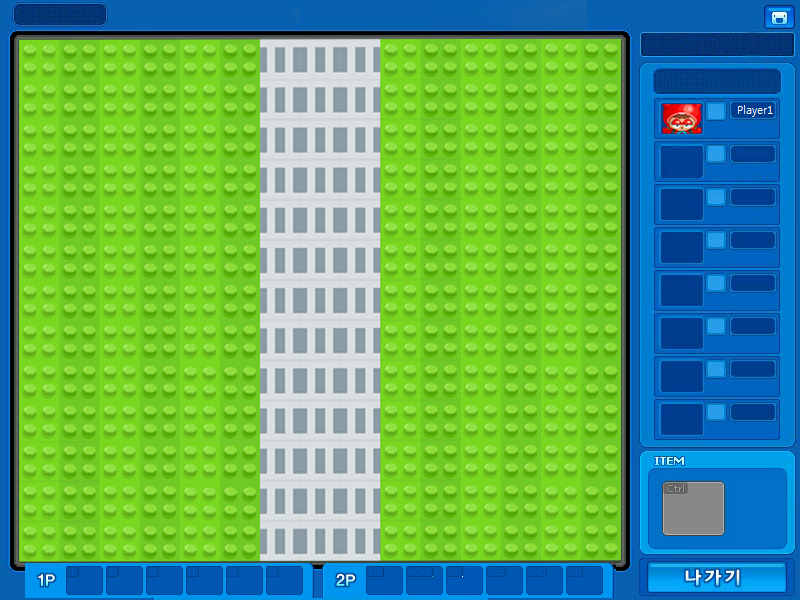
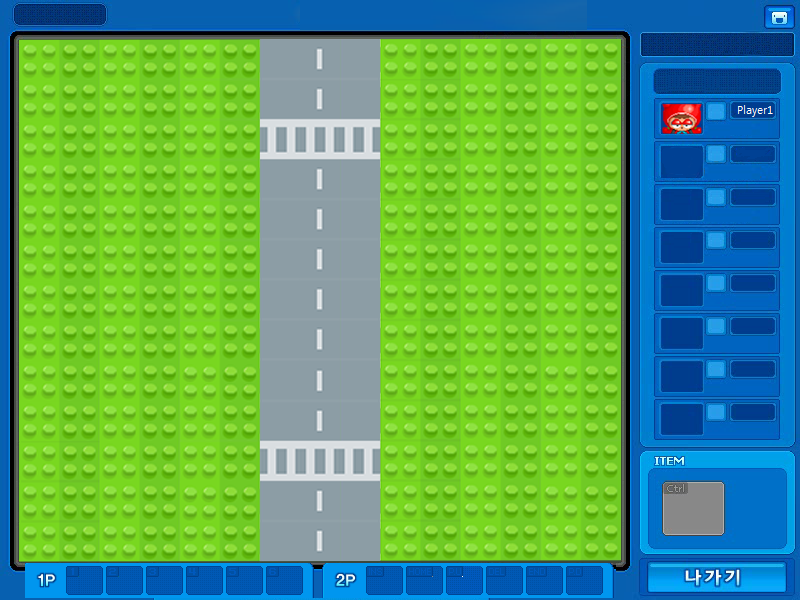
stage1 tree

Changed region(s): [[0.3125, 0.06, 0.5, 0.96]]

diff --git a/CrazyAcade/CrazyAcade.py b/CrazyAcade/CrazyAcade.py
@@ -9,21 +9,32 @@ def handle_events():
     global frame
     global bazzi_frame_y
     global bazzi_frame_x
+    global stage
     events = get_events()
     for event in events:
-        if event.type == SDL_QUIT:
-            running = False
-        elif event.type == SDL_KEYDOWN:
-            if event.key == SDLK_RIGHT:
+        if event.type == SDL_KEYDOWN:
+            if event.key == SDLK_0:
+                stage = 0
+            elif event.key == SDLK_1:
+                stage = 1
+            elif event.key == SDLK_2:
+                stage = 2
+            elif event.key == SDLK_3:
+                stage = 3
+
+            elif event.key == SDLK_RIGHT:
                 dir += 1
                 bazzi_frame_y = 3
                 bazzi_frame_x = (bazzi_frame_x + 1) % 4
+
             elif event.key == SDLK_LEFT:
                 dir -= 1
                 bazzi_frame_y = 2
                 bazzi_frame_x = (bazzi_frame_x + 1) % 4
+
             elif event.key == SDLK_ESCAPE:
                 running = False
+
         elif event.type == SDL_KEYUP:
             if event.key == SDLK_RIGHT:
                 dir -= 1
@@ -32,26 +43,96 @@ def handle_events():
     pass
 
 
+def make_stage1():
+    global stage1_block_state, stage1_block_x, stage1_block_y
+    global stage1_tree_state, stage1_tree_x, stage1_tree_y
+    global stage1, stage1_box1, stage1_box2, stage1_box3, stage1_tree
+    global stage1_house1, stage1_house2, stage1_house3
+    clear_canvas()
+
+    stage1.draw(WIDTH // 2, HEIGHT // 2)
+    for n in range(16):
+        stage1_tree.draw(stage1_tree_x[n], stage1_tree_y[n])
+
+    update_canvas()
+    pass
+
+
 open_canvas(WIDTH, HEIGHT)
-#ackground = load_image('InGame_Bg')
-#bmp png로 변경
+
+menu = load_image('Main.png')
+Help = load_image('Help_key.png')
+stage1 = load_image('Stage1.png')
+stage2 = load_image('Stage2.png')
+stage1_box1 = load_image('vilige_Box_0_M1.png')
+stage1_box2 = load_image('vilige_Box_1_M1.png')
+stage1_box3 = load_image('vilige_Box_2_M1.png')
+stage1_house1 = load_image('vilige_House_0.png')
+stage1_house2 = load_image('vilige_House_1.png')
+stage1_house3 = load_image('vilige_House_2.png')
+stage1_tree = load_image('vilige_Tree.png')
 bazzi = load_image('Character1_edit.png')
 
 running = True
+stage = 1
 bazzi_x = 800 // 2
 bazzi_frame_y = 2
 bazzi_frame_x = 0
 dir = 0
 
+tree_x, tree_y = 0, 0
+stage1_tree_state = []
+stage1_tree_x = []
+stage1_tree_y = []
+for i in range(16):
+    if i <= 5:
+        tree_x += 80.4
+        if i == 3:
+            tree_x = 441.4
+        if i == 0:
+            tree_x, tree_y = 40, 315
+    elif 5 < i <= 10:
+        if i == 6:
+            tree_x = 241
+            tree_y = 595
+        elif i == 9:
+            tree_x = 401.8
+            tree_y = 595
+        tree_y -= 80
+    elif 10 < i <= 16:
+        if i == 11:
+            tree_x = 241
+            tree_y = 275
+        elif i == 13:
+            tree_x = 401.8
+            tree_y = 355
+        tree_y -= 80
+    stage1_tree_state.append(1)
+    stage1_tree_x.append(tree_x)
+    stage1_tree_y.append(tree_y)
+
+block_x, block_y = 0, 0
+stage1_block_state = []
+stage1_block_x = []
+stage1_block_y = []
+for i in range(112):
+    stage1_block_state.append(0)
+    stage1_block_x.append(block_x)
+    stage1_block_y.append(block_y)
+
 while running:
-    clear_canvas()
-    #background.draw(WIDTH // 2, HEIGHT // 2)
-    bazzi.clip_draw(bazzi_frame_x * 100, bazzi_frame_y * 119, 60, 60, bazzi_x, 90)
-    update_canvas()
+
+    if stage == 0:
+        menu.draw(WIDTH // 2, HEIGHT // 2)
+    # bazzi.clip_draw(bazzi_frame_x * 100, bazzi_frame_y * 119, 60, 60, bazzi_x, 90)
+    elif stage == 1:
+        make_stage1()
+    elif stage == 2:
+        stage2.draw(WIDTH // 2, HEIGHT // 2)
 
     handle_events()
-    #frame = (frame + 1) % 8
-    bazzi_x += dir * 15
+    # frame = (frame + 1) % 8
+    # bazzi_x += dir * 15
 
     delay(0.02)
 
